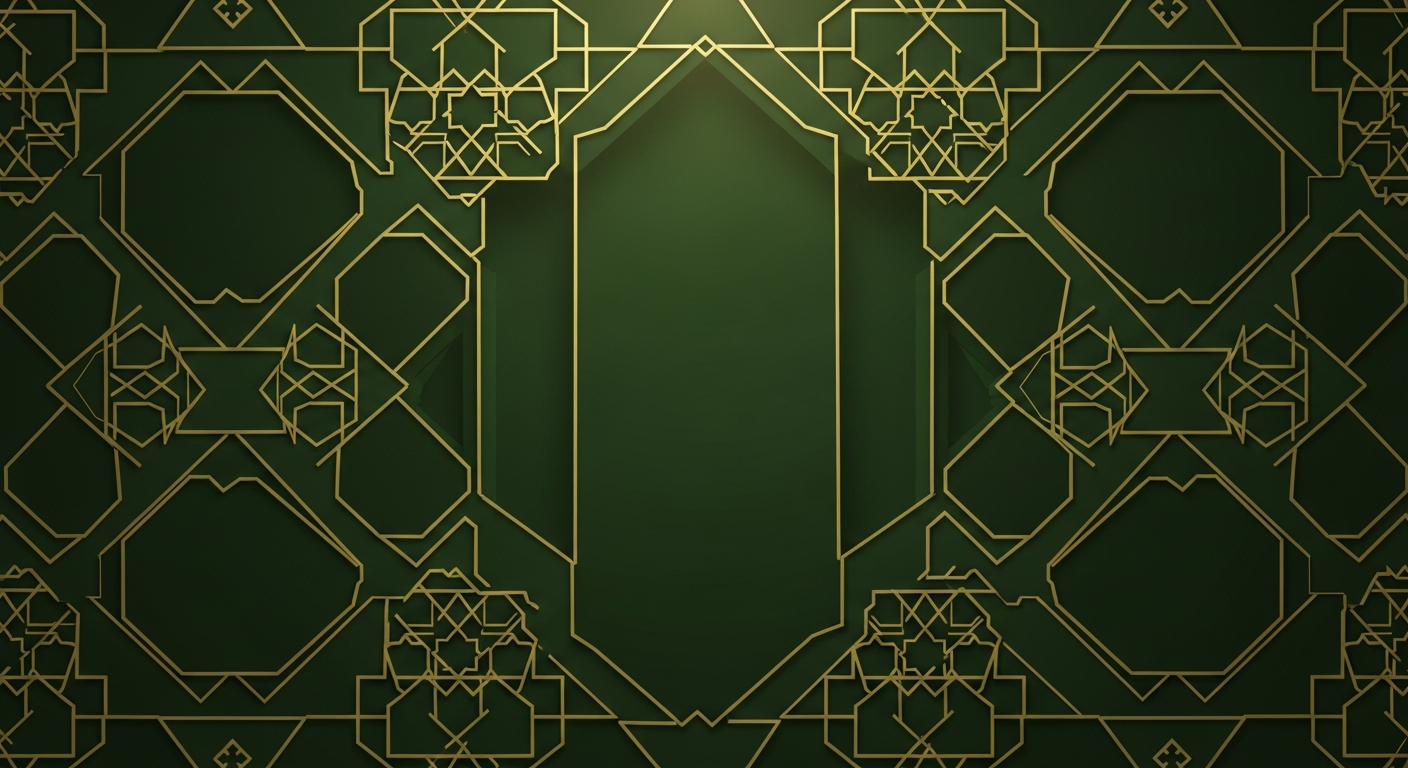
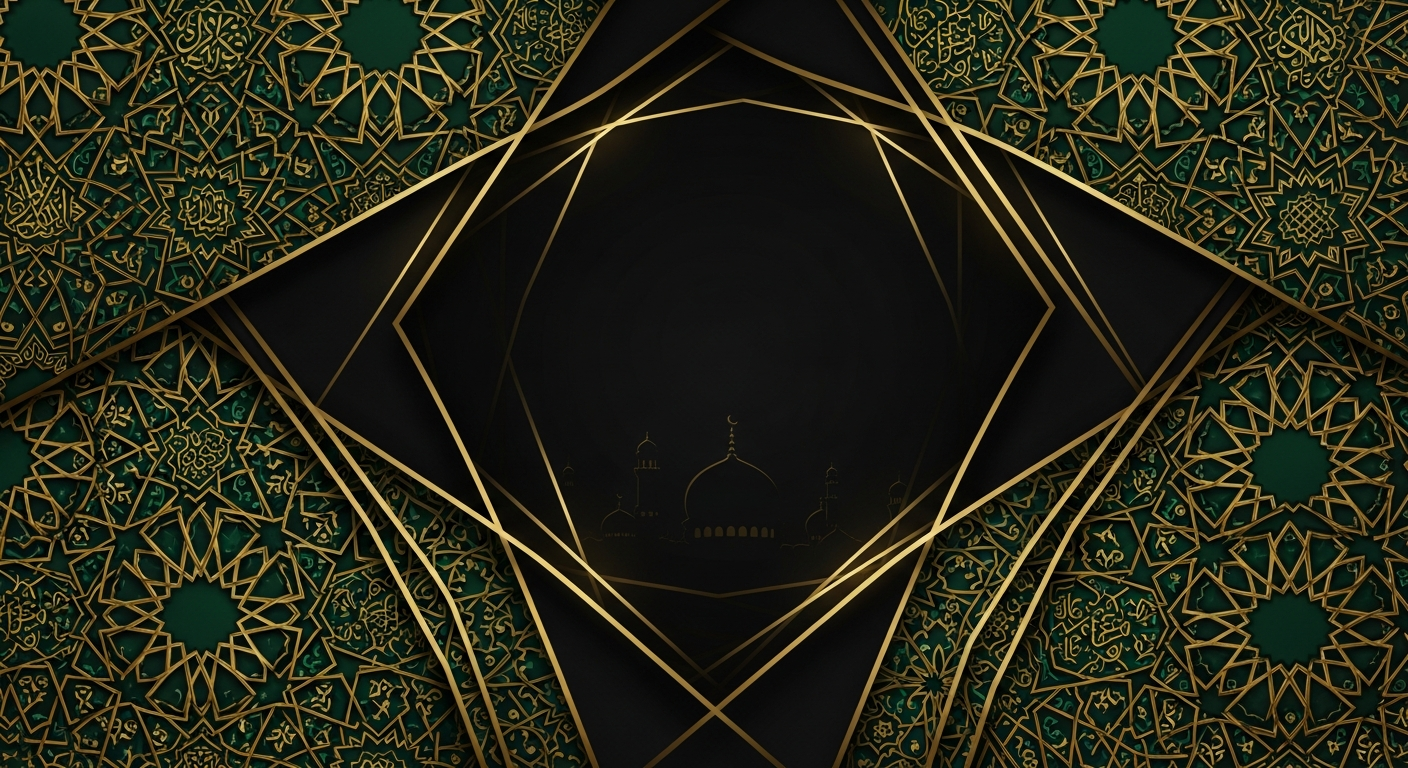
Update application visuals with new color schemes and background images
Introduce new color themes for banners and update the Tawbah card component to support image backgrounds, enhancing the visual appeal and thematic consistency of the application.

Replit-Commit-Author: Agent
Replit-Commit-Session-Id: ea88af3a-9a66-48d6-808b-f8f90211f736
Replit-Commit-Checkpoint-Type: full_checkpoint
Replit-Commit-Event-Id: b9d4d9a8-dd7c-45d7-bbab-865fc5e689d9
Replit-Commit-Screenshot-Url: https://storage.googleapis.com/screenshot-production-us-central1/623afb77-4267-45ed-a3dd-eb987b60c10a/ea88af3a-9a66-48d6-808b-f8f90211f736/yrCPLf0
Replit-Helium-Checkpoint-Created: true

diff --git a/artifacts/tawbah-web/src/pages/home.tsx b/artifacts/tawbah-web/src/pages/home.tsx
@@ -5,113 +5,40 @@ import { useAppUserProgress } from "@/hooks/use-app-data";
 import { LiveStats } from "@/components/live-stats";
 import { useState, useEffect } from "react";
 
+type BannerType = "season" | "nafl" | "ayah" | "hadith" | "dua" | "wisdom";
+
 type BannerItem = {
-  type: "season" | "nafl" | "ayah" | "hadith" | "dua" | "wisdom";
+  type: BannerType;
   label: string;
   content: string;
-  color: string;
   icon: "sparkles" | "moon" | "sun" | "star" | "book" | "chat";
+  seasonColor?: string;
+};
+
+const TYPE_STYLES: Record<BannerType, { gradient: string; border: string; iconColor: string }> = {
+  ayah:    { gradient: "from-emerald-600/20 to-emerald-300/5",    border: "border-emerald-500/20",  iconColor: "text-emerald-600" },
+  hadith:  { gradient: "from-amber-500/20 to-amber-300/5",        border: "border-amber-400/20",    iconColor: "text-amber-600" },
+  nafl:    { gradient: "from-indigo-600/20 to-blue-400/5",        border: "border-indigo-400/20",   iconColor: "text-indigo-500" },
+  dua:     { gradient: "from-violet-600/20 to-purple-300/5",      border: "border-violet-400/20",   iconColor: "text-violet-600" },
+  wisdom:  { gradient: "from-rose-500/20 to-pink-300/5",          border: "border-rose-400/20",     iconColor: "text-rose-500" },
+  season:  { gradient: "from-teal-500/20 to-emerald-300/5",       border: "border-teal-400/20",     iconColor: "text-teal-600" },
 };
 
 const BANNER_POOL: BannerItem[] = [
-  {
-    type: "ayah",
-    label: "آية كريمة",
-    content: "﴿قُلْ يَا عِبَادِيَ الَّذِينَ أَسْرَفُوا عَلَى أَنْفُسِهِمْ لَا تَقْنَطُوا مِنْ رَحْمَةِ اللَّهِ﴾ — الزمر: 53",
-    color: "from-emerald-500/20 to-teal-500/10",
-    icon: "book",
-  },
-  {
-    type: "hadith",
-    label: "حديث شريف",
-    content: "«إنَّ اللهَ يَقبلُ توبةَ العبدِ ما لم يُغَرْغِر» — رواه الترمذي",
-    color: "from-amber-500/20 to-yellow-500/10",
-    icon: "chat",
-  },
-  {
-    type: "nafl",
-    label: "تذكير بالنوافل",
-    content: "صلاة الضحى ركعتان — تُصلَّى بعد شروق الشمس بربع ساعة حتى قُبيل الظهر. لا تفوّتها!",
-    color: "from-orange-400/20 to-yellow-400/10",
-    icon: "sun",
-  },
-  {
-    type: "dua",
-    label: "دعاء مأثور",
-    content: "«اللهم إني أعوذ بك من الهمّ والحزن، وأعوذ بك من العجز والكسل، وأعوذ بك من الجبن والبخل»",
-    color: "from-violet-500/20 to-purple-500/10",
-    icon: "star",
-  },
-  {
-    type: "wisdom",
-    label: "عبرة ونصيحة",
-    content: "الذنب الذي يُورِث الإنكسار خير من طاعة تُورِث الكِبر — ابن عطاء الله السكندري",
-    color: "from-rose-400/20 to-pink-400/10",
-    icon: "sparkles",
-  },
-  {
-    type: "nafl",
-    label: "نافلة الليل",
-    content: "قيام الليل ولو بركعتين — أفضل الصلاة بعد المكتوبة. الله ينزل في الثلث الأخير فهل ستناديه؟",
-    color: "from-indigo-500/20 to-blue-500/10",
-    icon: "moon",
-  },
-  {
-    type: "ayah",
-    label: "آية كريمة",
-    content: "﴿وَمَن يَعْمَلْ سُوءًا أَوْ يَظْلِمْ نَفْسَهُ ثُمَّ يَسْتَغْفِرِ اللَّهَ يَجِدِ اللَّهَ غَفُورًا رَّحِيمًا﴾ — النساء: 110",
-    color: "from-teal-500/20 to-cyan-500/10",
-    icon: "book",
-  },
-  {
-    type: "hadith",
-    label: "حديث شريف",
-    content: "«التائبُ مِنَ الذنبِ كمَنْ لا ذنبَ له» — رواه ابن ماجه",
-    color: "from-green-500/20 to-emerald-500/10",
-    icon: "chat",
-  },
-  {
-    type: "wisdom",
-    label: "نصيحة روحية",
-    content: "كلما ازداد إحساسك بالذنب ازداد دليلاً على يقظة قلبك — فلا تيأس، بل تب وأقبِل.",
-    color: "from-amber-400/20 to-orange-400/10",
-    icon: "sparkles",
-  },
-  {
-    type: "nafl",
-    label: "سنة مؤكدة",
-    content: "السنن الرواتب الـ12: ركعتان قبل الفجر، 4 قبل الظهر، 2 بعده، 2 بعد المغرب، 2 بعد العشاء — من داوم عليها بُنِي له بيت في الجنة.",
-    color: "from-sky-400/20 to-blue-400/10",
-    icon: "sun",
-  },
-  {
-    type: "dua",
-    label: "دعاء التوبة",
-    content: "«اللهم أنت ربي لا إله إلا أنت، خلقتني وأنا عبدك، وأنا على عهدك ووعدك ما استطعت، أعوذ بك من شر ما صنعت، أبوء لك بنعمتك علي وأبوء بذنبي فاغفر لي، فإنه لا يغفر الذنوب إلا أنت» — سيد الاستغفار",
-    color: "from-primary/15 to-primary/5",
-    icon: "star",
-  },
-  {
-    type: "ayah",
-    label: "آية كريمة",
-    content: "﴿وَإِنِّي لَغَفَّارٌ لِّمَن تَابَ وَآمَنَ وَعَمِلَ صَالِحًا ثُمَّ اهْتَدَى﴾ — طه: 82",
-    color: "from-emerald-400/20 to-green-400/10",
-    icon: "book",
-  },
-  {
-    type: "nafl",
-    label: "صيام النوافل",
-    content: "الاثنين والخميس — أيام تُعرَض فيها الأعمال على الله. أحبّ أن يُعرَض عملي وأنا صائم.",
-    color: "from-violet-400/20 to-purple-400/10",
-    icon: "moon",
-  },
-  {
-    type: "wisdom",
-    label: "فائدة إيمانية",
-    content: "أعظم ما تفعله بعد المعصية: أن تسارع للصلاة والاستغفار فور السقوط — لا تمكّن الشيطان من إقناعك بالتأجيل.",
-    color: "from-rose-500/20 to-red-400/10",
-    icon: "sparkles",
-  },
+  { type: "ayah",   label: "آية كريمة",        icon: "book",     content: "﴿قُلْ يَا عِبَادِيَ الَّذِينَ أَسْرَفُوا عَلَى أَنْفُسِهِمْ لَا تَقْنَطُوا مِنْ رَحْمَةِ اللَّهِ﴾ — الزمر: 53" },
+  { type: "hadith", label: "حديث شريف",        icon: "chat",     content: "«إنَّ اللهَ يَقبلُ توبةَ العبدِ ما لم يُغَرْغِر» — رواه الترمذي" },
+  { type: "nafl",   label: "تذكير بالنوافل",   icon: "sun",      content: "صلاة الضحى ركعتان — تُصلَّى بعد شروق الشمس بربع ساعة حتى قُبيل الظهر. لا تفوّتها!" },
+  { type: "dua",    label: "دعاء مأثور",       icon: "star",     content: "«اللهم إني أعوذ بك من الهمّ والحزن، وأعوذ بك من العجز والكسل، وأعوذ بك من الجبن والبخل»" },
+  { type: "wisdom", label: "عبرة ونصيحة",      icon: "sparkles", content: "الذنب الذي يُورِث الإنكسار خير من طاعة تُورِث الكِبر — ابن عطاء الله السكندري" },
+  { type: "nafl",   label: "نافلة الليل",      icon: "moon",     content: "قيام الليل ولو بركعتين — أفضل الصلاة بعد المكتوبة. الله ينزل في الثلث الأخير فهل ستناديه؟" },
+  { type: "ayah",   label: "آية كريمة",        icon: "book",     content: "﴿وَمَن يَعْمَلْ سُوءًا أَوْ يَظْلِمْ نَفْسَهُ ثُمَّ يَسْتَغْفِرِ اللَّهَ يَجِدِ اللَّهَ غَفُورًا رَّحِيمًا﴾ — النساء: 110" },
+  { type: "hadith", label: "حديث شريف",        icon: "chat",     content: "«التائبُ مِنَ الذنبِ كمَنْ لا ذنبَ له» — رواه ابن ماجه" },
+  { type: "wisdom", label: "نصيحة روحية",      icon: "sparkles", content: "كلما ازداد إحساسك بالذنب ازداد دليلاً على يقظة قلبك — فلا تيأس، بل تب وأقبِل." },
+  { type: "nafl",   label: "سنة مؤكدة",        icon: "sun",      content: "السنن الرواتب الـ12: ركعتان قبل الفجر، 4 قبل الظهر، 2 بعده، 2 بعد المغرب، 2 بعد العشاء — من داوم عليها بُنِي له بيت في الجنة." },
+  { type: "dua",    label: "دعاء التوبة",      icon: "star",     content: "«اللهم أنت ربي لا إله إلا أنت، خلقتني وأنا عبدك، وأنا على عهدك ووعدك ما استطعت، أعوذ بك من شر ما صنعت، أبوء لك بنعمتك علي وأبوء بذنبي فاغفر لي» — سيد الاستغفار" },
+  { type: "ayah",   label: "آية كريمة",        icon: "book",     content: "﴿وَإِنِّي لَغَفَّارٌ لِّمَن تَابَ وَآمَنَ وَعَمِلَ صَالِحًا ثُمَّ اهْتَدَى﴾ — طه: 82" },
+  { type: "nafl",   label: "صيام النوافل",     icon: "moon",     content: "الاثنين والخميس — أيام تُعرَض فيها الأعمال على الله. أحبّ أن يُعرَض عملي وأنا صائم." },
+  { type: "wisdom", label: "فائدة إيمانية",    icon: "sparkles", content: "أعظم ما تفعله بعد المعصية: أن تسارع للصلاة والاستغفار فور السقوط — لا تمكّن الشيطان من إقناعك بالتأجيل." },
 ];
 
 function getSeasonBanner(): BannerItem | null {
@@ -120,21 +47,21 @@ function getSeasonBanner(): BannerItem | null {
   const day = now.getDate();
 
   if (month === 3 && day >= 15 && day <= 31)
-    return { type: "season", label: "آخر رمضان قادم", content: "استعد لليالي المباركة — العشر الأواخر فرصة لا تتكرر. حسّن توبتك الآن.", color: "from-emerald-500/25 to-teal-500/10", icon: "moon" };
+    return { type: "season", label: "آخر رمضان قادم", content: "استعد لليالي المباركة — العشر الأواخر فرصة لا تتكرر. حسّن توبتك الآن.", icon: "moon", seasonColor: "from-emerald-600/25 to-teal-400/5 border-emerald-500/25" };
   if (month === 4 && day <= 3)
-    return { type: "season", label: "ليالي العيد", content: "من أحيا ليالي العيد بالذكر والطاعة لم يمُت قلبه يوم تموت القلوب.", color: "from-amber-500/25 to-yellow-400/10", icon: "star" };
+    return { type: "season", label: "ليالي العيد", content: "من أحيا ليالي العيد بالذكر والطاعة لم يمُت قلبه يوم تموت القلوب.", icon: "star", seasonColor: "from-amber-500/25 to-yellow-300/5 border-amber-400/25" };
   if (month === 6 && day >= 1 && day <= 10)
-    return { type: "season", label: "العشر من ذي الحجة", content: "أفضل أيام السنة — صيام وذكر وتوبة. أعمالك الصالحة مضاعفة.", color: "from-amber-500/25 to-yellow-500/10", icon: "sparkles" };
+    return { type: "season", label: "العشر من ذي الحجة", content: "أفضل أيام السنة — صيام وذكر وتوبة. أعمالك الصالحة مضاعفة.", icon: "sparkles", seasonColor: "from-amber-600/25 to-yellow-400/5 border-amber-500/25" };
   if (month === 7 && day === 9)
-    return { type: "season", label: "يوم عرفة 🤲", content: "أكثر يوم يُعتَق فيه الناس من النار — اجتهد في الدعاء والاستغفار الآن.", color: "from-primary/20 to-primary/5", icon: "star" };
+    return { type: "season", label: "يوم عرفة 🤲", content: "أكثر يوم يُعتَق فيه الناس من النار — اجتهد في الدعاء والاستغفار الآن.", icon: "star", seasonColor: "from-primary/25 to-primary/5 border-primary/20" };
   if (month === 8 && day >= 1 && day <= 15)
-    return { type: "season", label: "شعبان — شهر رفع الأعمال", content: "أعمالك تُرفَع إلى الله قبل رمضان. ابدأ الاستعداد من الآن بصفحة نظيفة.", color: "from-purple-500/25 to-violet-500/10", icon: "moon" };
+    return { type: "season", label: "شعبان — شهر رفع الأعمال", content: "أعمالك تُرفَع إلى الله قبل رمضان. ابدأ الاستعداد من الآن بصفحة نظيفة.", icon: "moon", seasonColor: "from-purple-600/25 to-violet-400/5 border-purple-400/25" };
   if (month === 1 || month === 2)
-    return { type: "season", label: "الأشهر الحرم", content: "ذو القعدة وذو الحجة والمحرم ورجب — أشهر عظّمها الله. الحسنات مضاعفة والسيئات مثقّلة.", color: "from-sky-500/20 to-blue-400/10", icon: "sparkles" };
+    return { type: "season", label: "الأشهر الحرم", content: "ذو القعدة وذو الحجة والمحرم ورجب — أشهر عظّمها الله. الحسنات مضاعفة والسيئات مثقّلة.", icon: "sparkles", seasonColor: "from-sky-600/25 to-blue-400/5 border-sky-400/25" };
 
   const dayOfWeek = now.getDay();
   if (dayOfWeek === 5)
-    return { type: "season", label: "يوم الجمعة المبارك", content: "أكثر من الصلاة على النبي ﷺ اليوم — اقرأ سورة الكهف وادعُ في ساعة الإجابة.", color: "from-green-500/20 to-emerald-400/10", icon: "sun" };
+    return { type: "season", label: "يوم الجمعة المبارك", content: "أكثر من الصلاة على النبي ﷺ اليوم — اقرأ سورة الكهف وادعُ في ساعة الإجابة.", icon: "sun", seasonColor: "from-green-600/25 to-emerald-400/5 border-green-400/25" };
 
   return null;
 }
@@ -185,6 +112,11 @@ function DynamicBanner() {
     }
   };
 
+  const styles = TYPE_STYLES[currentItem.type];
+  const gradientClass = currentItem.type === "season" && currentItem.seasonColor
+    ? currentItem.seasonColor
+    : `${styles.gradient} ${styles.border}`;
+
   return (
     <AnimatePresence mode="wait">
       <motion.div
@@ -193,15 +125,15 @@ function DynamicBanner() {
         animate={{ opacity: 1, y: 0 }}
         exit={{ opacity: 0, y: 8 }}
         transition={{ duration: 0.35 }}
-        className={`bg-gradient-to-r ${currentItem.color} rounded-2xl p-4 border border-white/10 shadow-sm cursor-pointer select-none`}
+        className={`bg-gradient-to-r ${gradientClass} rounded-2xl p-4 border shadow-sm cursor-pointer select-none`}
         onClick={handleNext}
       >
         <div className="flex items-center justify-between mb-1.5">
           <div className="flex items-center gap-2">
-            <IconComp size={15} className="text-primary shrink-0" />
-            <span className="font-bold text-xs text-primary">{currentItem.label}</span>
+            <IconComp size={15} className={`${styles.iconColor} shrink-0`} />
+            <span className={`font-bold text-xs ${styles.iconColor}`}>{currentItem.label}</span>
           </div>
-          <span className="text-[10px] text-muted-foreground/70">اضغط للتالي ›</span>
+          <span className="text-[10px] text-muted-foreground/60">اضغط للتالي ›</span>
         </div>
         <p className="text-xs text-foreground/80 leading-relaxed">{currentItem.content}</p>
       </motion.div>
@@ -244,7 +176,7 @@ export default function Home() {
         </div>
       </div>
 
-      <div className="px-5 -mt-5 relative z-10 flex flex-col gap-4">
+      <div className="px-5 mt-4 relative z-10 flex flex-col gap-4">
 
         <DynamicBanner />
 

diff --git a/artifacts/tawbah-web/src/pages/tawbah-card.tsx b/artifacts/tawbah-web/src/pages/tawbah-card.tsx
@@ -14,6 +14,30 @@ const VERSES = [
 
 const THEMES = [
   {
+    id: "sapphire",
+    name: "الليلة الزرقاء",
+    bg: "linear-gradient(160deg, #0a1628 0%, #0f2547 60%, #071020 100%)",
+    accent: "#c9a84c",
+    text: "#f0ead6",
+    sub: "rgba(240,234,214,0.65)",
+    border: "rgba(201,168,76,0.4)",
+    pattern: "radial-gradient(circle at 30% 70%, rgba(201,168,76,0.06) 0%, transparent 50%)",
+    bgImage: "card-bg-1.png",
+    bgOverlay: "rgba(7,16,32,0.62)",
+  },
+  {
+    id: "emerald",
+    name: "الجنة الخضراء",
+    bg: "linear-gradient(160deg, #071f12 0%, #0d3320 60%, #041510 100%)",
+    accent: "#d4af37",
+    text: "#fefcf0",
+    sub: "rgba(255,255,255,0.65)",
+    border: "rgba(212,175,55,0.4)",
+    pattern: "radial-gradient(circle at 20% 20%, rgba(212,175,55,0.07) 0%, transparent 50%)",
+    bgImage: "card-bg-2.png",
+    bgOverlay: "rgba(4,21,16,0.6)",
+  },
+  {
     id: "forest",
     name: "الغابة الخضراء",
     bg: "linear-gradient(135deg, #0f4c35 0%, #1a6b4a 50%, #0a3525 100%)",
@@ -22,6 +46,8 @@ const THEMES = [
     sub: "rgba(255,255,255,0.65)",
     border: "rgba(212,175,55,0.4)",
     pattern: "radial-gradient(circle at 20% 20%, rgba(212,175,55,0.08) 0%, transparent 50%), radial-gradient(circle at 80% 80%, rgba(212,175,55,0.06) 0%, transparent 50%)",
+    bgImage: undefined,
+    bgOverlay: undefined,
   },
   {
     id: "night",
@@ -32,6 +58,8 @@ const THEMES = [
     sub: "rgba(240,234,214,0.6)",
     border: "rgba(201,168,76,0.35)",
     pattern: "radial-gradient(circle at 30% 70%, rgba(201,168,76,0.07) 0%, transparent 50%)",
+    bgImage: undefined,
+    bgOverlay: undefined,
   },
   {
     id: "sand",
@@ -42,6 +70,8 @@ const THEMES = [
     sub: "rgba(255,249,230,0.7)",
     border: "rgba(255,249,230,0.3)",
     pattern: "radial-gradient(circle at 70% 30%, rgba(255,255,255,0.08) 0%, transparent 50%)",
+    bgImage: undefined,
+    bgOverlay: undefined,
   },
   {
     id: "pearl",
@@ -52,6 +82,8 @@ const THEMES = [
     sub: "rgba(26,46,26,0.55)",
     border: "rgba(26,92,58,0.25)",
     pattern: "radial-gradient(circle at 50% 50%, rgba(26,92,58,0.04) 0%, transparent 60%)",
+    bgImage: undefined,
+    bgOverlay: undefined,
   },
 ];
 
@@ -166,6 +198,22 @@ export default function TawbahCard() {
             direction: "rtl",
           }}
         >
+          {/* AI-generated image background */}
+          {theme.bgImage && (
+            <img
+              src={`${import.meta.env.BASE_URL}images/${theme.bgImage}`}
+              alt=""
+              crossOrigin="anonymous"
+              style={{
+                position: "absolute", inset: 0, width: "100%", height: "100%",
+                objectFit: "cover", opacity: 1,
+              }}
+            />
+          )}
+          {/* Dark overlay for readability */}
+          {theme.bgOverlay && (
+            <div style={{ position: "absolute", inset: 0, background: theme.bgOverlay }} />
+          )}
           {/* Background pattern */}
           <div style={{ position: "absolute", inset: 0, background: theme.pattern }} />
 
@@ -297,17 +345,28 @@ export default function TawbahCard() {
         {/* Theme selector */}
         <div className="bg-card rounded-2xl border border-border p-4">
           <p className="text-xs font-bold text-muted-foreground mb-3">اختر التصميم</p>
-          <div className="grid grid-cols-4 gap-2">
+          <div className="grid grid-cols-3 gap-2">
             {THEMES.map((t, i) => (
               <button
                 key={t.id}
                 onClick={() => setThemeIdx(i)}
-                className={`relative h-14 rounded-xl overflow-hidden border-2 transition-all ${themeIdx === i ? "border-primary scale-105" : "border-transparent"}`}
+                className={`relative h-16 rounded-xl overflow-hidden border-2 transition-all ${themeIdx === i ? "border-primary scale-105" : "border-transparent opacity-80"}`}
                 style={{ background: t.bg }}
               >
+                {t.bgImage && (
+                  <img
+                    src={`${import.meta.env.BASE_URL}images/${t.bgImage}`}
+                    alt=""
+                    className="absolute inset-0 w-full h-full object-cover"
+                    style={{ opacity: 0.7 }}
+                  />
+                )}
+                <div className="absolute inset-0 flex flex-col items-center justify-center gap-0.5">
+                  <span className="text-[10px] font-bold text-white drop-shadow-md leading-tight">{t.name}</span>
+                </div>
                 {themeIdx === i && (
-                  <div className="absolute inset-0 flex items-center justify-center">
-                    <Check size={16} className="text-white drop-shadow" />
+                  <div className="absolute inset-0 flex items-center justify-center bg-black/20">
+                    <Check size={18} className="text-white drop-shadow-lg" />
                   </div>
                 )}
               </button>
